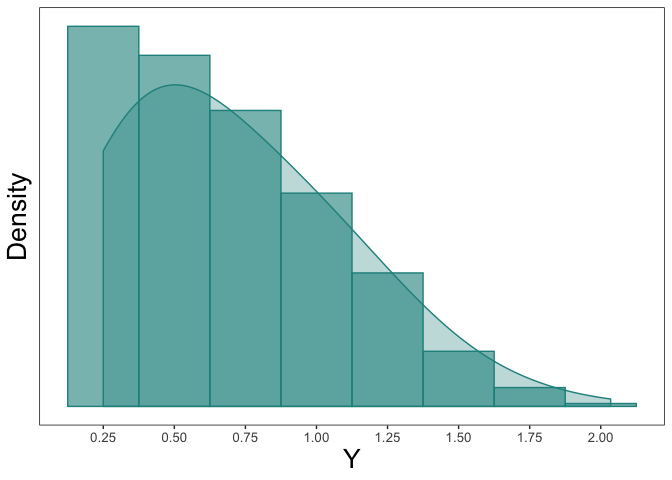
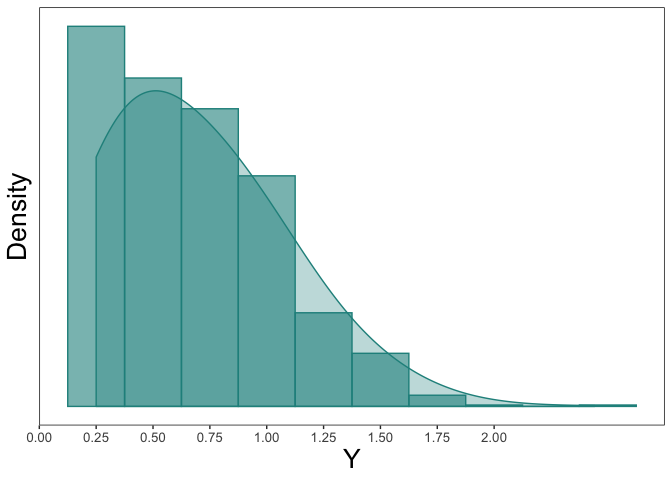
updating README

diff --git a/README.md b/README.md
@@ -48,7 +48,7 @@ y_star <- msm::rtnorm(n=1000, mean=mu, sd=sigma, lower=a)
 round(range(y_star), 3)
 ```
 
-    ## [1] 0.000 2.327
+    ## [1] 0.002 2.442
 
 Next, we can imagine a scenario where we have an imprecise measurement
 of `y_star` leading to censoring. In our case we assume that values
@@ -64,7 +64,7 @@ y <- ifelse(y_star <= nu, nu, y_star)
 sum(y == nu)/length(y) 
 ```
 
-    ## [1] 0.18
+    ## [1] 0.161
 
 ``` r
 #collecting the uncensored and censored data together
@@ -89,22 +89,22 @@ tcensReg(y ~ 1, data=dt, a=0, v=0.25)
 
     ## $theta
     ##               Estimate
-    ## (Intercept)  0.4962550
-    ## log_sigma   -0.7002455
+    ## (Intercept)  0.5417343
+    ## log_sigma   -0.7466209
     ## 
     ## $convergence
     ## [1] 0
     ## 
     ## $initial_ll
-    ## [1] -667.0245
+    ## [1] -637.2453
     ## 
     ## $final_ll
-    ## [1] -652.5841
+    ## [1] -625.8284
     ## 
     ## $var_cov
     ##               (Intercept)     log_sigma
-    ## (Intercept)  0.0008335303 -0.0008352166
-    ## log_sigma   -0.0008352166  0.0015865655
+    ## (Intercept)  0.0006059544 -0.0006142957
+    ## log_sigma   -0.0006142957  0.0013988561
     ## 
     ## $method
     ## [1] "CG"
@@ -153,133 +153,13 @@ knitr::kable(results_df, format="markdown", digits=4)
 |            |     mu |  sigma | mu\_bias | sigma\_bias |
 | :--------- | -----: | -----: | -------: | ----------: |
 | Truth      | 0.5000 | 0.5000 |   0.0000 |      0.0000 |
-| tcensReg   | 0.4963 | 0.4965 |   0.0037 |      0.0035 |
-| Normal MLE | 0.6602 | 0.3675 |   0.1602 |      0.1325 |
-| Tobit      | 0.6170 | 0.4314 |   0.1170 |      0.0686 |
+| tcensReg   | 0.5417 | 0.4740 |   0.0417 |      0.0260 |
+| Normal MLE | 0.6730 | 0.3643 |   0.1730 |      0.1357 |
+| Tobit      | 0.6363 | 0.4201 |   0.1363 |      0.0799 |
 
 Other methods result in significant bias for both `mu` and `sigma`.
 
-Note also that the `tcensReg` can also estimate parameters in the
-censored-only or truncated-only cases. We show below that by using
-analytic values in the tcensReg implementation that our method is faster
-then the alternative estimation procedures while providing better
-variance estimates. With a small set of covariates and `p<<n` we can use
-the Newton Raphson method of optimization, which is computationally fast
-with few covariates.
-
-``` r
-library(microbenchmark)
-#testing the censored-only regression
-library(censReg)
-cens <- microbenchmark(tcensReg_method = tcensReg(y ~ 1, data=dt, v=nu, method="Newton"),
-               censReg_method = censReg(y ~ 1, left=nu, data=dt))
-knitr::kable(summary(cens), format="markdown", digits=4)
-```
-
-| expr             |     min |      lq |    mean |  median |      uq |      max | neval |
-| :--------------- | ------: | ------: | ------: | ------: | ------: | -------: | ----: |
-| tcensReg\_method |  4.8107 |  5.2797 |  7.1915 |  5.7365 |  6.9342 |  32.3154 |   100 |
-| censReg\_method  | 13.7251 | 16.3832 | 25.4027 | 20.2063 | 22.4946 | 181.0279 |   100 |
-
-``` r
-#point estimates are equivalent
-tcensReg_est <- as.numeric(tcensReg(y ~ 1, data=dt, v=nu, method="Newton")$theta)
-censReg_est <- as.numeric(coef(censReg(y ~ 1, left=nu, data=dt)))
-all.equal(tcensReg_est, censReg_est)
-```
-
-    ## [1] TRUE
-
-``` r
-#testing the truncated-only regression
-library(truncreg)
-trunc <- microbenchmark(
-  tcensReg_method = tcensReg(y_star ~ 1, data=dt, a=a, method="Newton"),
-  truncreg_method = truncreg(y_star ~ 1, point=a, data=dt))
-knitr::kable(summary(trunc), format="markdown", digits=4)
-```
-
-| expr             |     min |      lq |    mean |  median |      uq |      max | neval |
-| :--------------- | ------: | ------: | ------: | ------: | ------: | -------: | ----: |
-| tcensReg\_method |  8.4508 |  8.9854 | 12.3351 | 10.1597 | 12.1834 | 140.6673 |   100 |
-| truncreg\_method | 26.0365 | 28.5910 | 34.5339 | 32.2422 | 38.7620 |  70.2593 |   100 |
-
-``` r
-tcensReg_est <- as.numeric(tcensReg(y_star ~ 1, data=dt, a=a, method="Newton")$theta)
-#note truncreg returns sigma not log_sigma so we need to exponentiate our value
-tcensReg_est[2] <- exp(tcensReg_est[2])
-truncreg_est <- as.numeric(coef(truncreg(y_star ~ 1, point=a, data=dt)))
-all.equal(tcensReg_est, truncreg_est)
-```
-
-    ## [1] "Mean relative difference: 1.252194e-07"
-
-In the comparisons above we are using an intercept only model, but in
-general we expect that interest lies in understanding how a set of
-covariates effect the mean response. So to test the sensitivity and
-speed as the number of covariates approaches `n` we can generate
-independent random variables `X` and fit the regression model of `Y` or
-`Y_star`.
-
-We can compare the censored-only and truncated-only performance with 100
-predictors, i.e. `p`=20. To illustrate some of the other available
-optimization methods we will set method to BFGS, which is a quasi-Newton
-optimization method.
-
-``` r
-#number of predictors
-p <- 20
-X <- NULL
-for(i in seq_len(p)){
-    X_i <- rnorm(n = length(y))
-    X <- cbind(X, X_i)
-}
-colnames(X) <- paste0("var_", seq_len(p))
-dt <- data.frame(y, X)
-
-#testing the censored-only regression with 100 covariates
-cens <- microbenchmark(tcensReg_method = tcensReg(y ~ ., data=dt, v=nu, method="BFGS"),
-               censReg_method = censReg(y ~ ., left=nu, data=dt))
-knitr::kable(summary(cens), format="markdown", digits=4)
-```
-
-| expr             |      min |       lq |     mean |   median |       uq |      max | neval |
-| :--------------- | -------: | -------: | -------: | -------: | -------: | -------: | ----: |
-| tcensReg\_method | 208.4625 | 214.4546 | 231.7934 | 219.3142 | 229.9068 | 399.8933 |   100 |
-| censReg\_method  | 285.3236 | 304.4703 | 337.1597 | 314.2466 | 346.7262 | 632.4753 |   100 |
-
-``` r
-#point estimates are equivalent
-tcensReg_est <- as.numeric(tcensReg(y ~ ., data=dt, v=nu, method="BFGS")$theta)
-censReg_est <- as.numeric(coef(censReg(y ~ ., left=nu, data=dt)))
-all.equal(tcensReg_est, censReg_est)
-```
-
-    ## [1] "Mean relative difference: 0.0001905248"
-
-``` r
-#testing the truncated-only regression with 100 covariates
-trunc <- microbenchmark(tcensReg_method = tcensReg(y_star ~ ., data=dt, a=a, method="BFGS"),
-                        truncreg_method = truncreg(y_star ~ ., point=a, data=dt))
-knitr::kable(summary(trunc), format="markdown", digits=4)
-```
-
-| expr             |      min |       lq |     mean |   median |       uq |      max | neval |
-| :--------------- | -------: | -------: | -------: | -------: | -------: | -------: | ----: |
-| tcensReg\_method | 184.9754 | 191.3098 | 210.9298 | 197.6909 | 218.5360 | 347.4651 |   100 |
-| truncreg\_method | 395.4082 | 413.3498 | 458.1695 | 433.9715 | 476.2143 | 752.4025 |   100 |
-
-``` r
-tcensReg_est <- as.numeric(tcensReg(y_star ~ ., data=dt, a=a, method="BFGS")$theta)
-#note truncreg returns sigma not log_sigma so we need to exponentiate the last parameter value
-tcensReg_est[length(tcensReg_est)] <- exp(tcensReg_est[length(tcensReg_est)])
-truncreg_est <- as.numeric(coef(truncreg(y_star ~ ., point=a, data=dt)))
-all.equal(tcensReg_est, truncreg_est)
-```
-
-    ## [1] "Mean relative difference: 5.613449e-05"
-
-# Example 2: Two Population Model with Seprate Variances
+# Example 2: Two Population Model with Separate Variances
 
 As an extension for the single population model above, we can imagine a
 two independent truncated normal random variables that have common
@@ -329,28 +209,28 @@ mod_result
 
     ## $theta
     ##       (Intercept) groupPopulation 2        log_sigma1        log_sigma2 
-    ##         0.5076183         0.5438368        -1.4180676         0.6686763 
+    ##         0.4947191         0.4289221        -1.3876226         0.7103326 
     ## 
     ## $convergence
     ## [1] 2
     ## 
     ## $initial_ll
-    ## [1] -1906.305
+    ## [1] -1953.586
     ## 
     ## $final_ll
-    ## [1] -1830.398
+    ## [1] -1868.854
     ## 
     ## $var_cov
     ##                     (Intercept) groupPopulation 2    log_sigma1
-    ## (Intercept)        7.006140e-05     -7.006140e-05 -5.816753e-05
-    ## groupPopulation 2 -7.006140e-05      2.875721e-02  5.816753e-05
-    ## log_sigma1        -5.816753e-05      5.816753e-05  7.698315e-04
-    ## log_sigma2        -3.251003e-21     -7.031410e-03 -3.472266e-21
+    ## (Intercept)        7.831116e-05     -7.831116e-05 -7.490645e-05
+    ## groupPopulation 2 -7.831116e-05      3.692260e-02  7.490645e-05
+    ## log_sigma1        -7.490645e-05      7.490645e-05  8.185619e-04
+    ## log_sigma2         8.479045e-21     -8.475465e-03 -1.374380e-20
     ##                      log_sigma2
-    ## (Intercept)       -3.251003e-21
-    ## groupPopulation 2 -7.031410e-03
-    ## log_sigma1        -3.472266e-21
-    ## log_sigma2         2.352315e-03
+    ## (Intercept)        8.479045e-21
+    ## groupPopulation 2 -8.475465e-03
+    ## log_sigma1        -1.374380e-20
+    ## log_sigma2         2.555892e-03
     ## 
     ## $method
     ## [1] "maxLik"
@@ -373,5 +253,127 @@ knitr::kable(results_df, format="markdown", digits=4)
 
 |          |  mu\_1 |  mu\_2 | sigma\_1 | sigma\_2 | mu1\_bias | mu2\_bias | sigma1\_bias | sigma2\_bias |
 | :------- | -----: | -----: | -------: | -------: | --------: | --------: | -----------: | -----------: |
-| Truth    | 0.5000 | 1.0000 |   0.2500 |   2.0000 |    0.0000 |    0.0000 |       0.0000 |       0.0000 |
-| tcensReg | 0.5076 | 0.5438 |   0.2422 |   1.9517 |    0.0076 |    0.4562 |       0.0078 |       0.0483 |
+| Truth    | 0.5000 | 1.0000 |   0.2500 |   2.0000 |    0.0000 |    0.0000 |        0e+00 |       0.0000 |
+| tcensReg | 0.4947 | 0.4289 |   0.2497 |   2.0347 |    0.0053 |    0.5711 |        3e-04 |       0.0347 |
+
+# Performance Comparison: Censored-Only and Truncated-Only
+
+Note also that the `tcensReg` can also estimate parameters in the
+censored-only or truncated-only cases. We show below that by using
+analytic values in the tcensReg implementation that our method is faster
+then the alternative estimation procedures while providing better
+variance estimates. With a small set of covariates and `p<<n` we can use
+the Newton Raphson method of optimization, which is computationally fast
+with few covariates.
+
+``` r
+library(microbenchmark)
+#testing the censored-only regression
+library(censReg)
+cens <- microbenchmark(tcensReg_method = tcensReg(y ~ 1, data=dt, v=nu, method="Newton"),
+               censReg_method = censReg(y ~ 1, left=nu, data=dt))
+knitr::kable(summary(cens), format="markdown", digits=4)
+```
+
+| expr             |     min |      lq |    mean |  median |      uq |      max | neval |
+| :--------------- | ------: | ------: | ------: | ------: | ------: | -------: | ----: |
+| tcensReg\_method |  4.7019 |  5.3771 |  6.0058 |  5.6841 |  5.9157 |  13.9192 |   100 |
+| censReg\_method  | 13.0509 | 15.4322 | 19.4388 | 16.1687 | 22.0166 | 152.3711 |   100 |
+
+``` r
+#point estimates are equivalent
+tcensReg_est <- as.numeric(tcensReg(y ~ 1, data=dt, v=nu, method="Newton")$theta)
+censReg_est <- as.numeric(coef(censReg(y ~ 1, left=nu, data=dt)))
+all.equal(tcensReg_est, censReg_est)
+```
+
+    ## [1] TRUE
+
+``` r
+#testing the truncated-only regression
+library(truncreg)
+trunc <- microbenchmark(
+  tcensReg_method = tcensReg(y_star ~ 1, data=dt, a=a, method="Newton"),
+  truncreg_method = truncreg(y_star ~ 1, point=a, data=dt))
+knitr::kable(summary(trunc), format="markdown", digits=4)
+```
+
+| expr             |     min |      lq |    mean |  median |      uq |     max | neval |
+| :--------------- | ------: | ------: | ------: | ------: | ------: | ------: | ----: |
+| tcensReg\_method |  8.4808 |  9.0744 | 10.9160 |  9.8203 | 11.8880 | 23.5230 |   100 |
+| truncreg\_method | 26.1070 | 28.9581 | 32.9231 | 32.3717 | 35.7111 | 49.1436 |   100 |
+
+``` r
+tcensReg_est <- as.numeric(tcensReg(y_star ~ 1, data=dt, a=a, method="Newton")$theta)
+#note truncreg returns sigma not log_sigma so we need to exponentiate our value
+tcensReg_est[2] <- exp(tcensReg_est[2])
+truncreg_est <- as.numeric(coef(truncreg(y_star ~ 1, point=a, data=dt)))
+all.equal(tcensReg_est, truncreg_est)
+```
+
+    ## [1] TRUE
+
+In the comparisons above we are using an intercept only model, but in
+general we expect that interest lies in understanding how a set of
+covariates effect the mean response. So to test the sensitivity and
+speed as the number of covariates approaches `n` we can generate
+independent random variables `X` and fit the regression model of `Y` or
+`Y_star`.
+
+We can compare the censored-only and truncated-only performance with 100
+predictors, i.e. `p`=20. To illustrate some of the other available
+optimization methods we will set method to BFGS, which is a quasi-Newton
+optimization method.
+
+``` r
+#number of predictors
+p <- 20
+X <- NULL
+for(i in seq_len(p)){
+    X_i <- rnorm(n = length(y))
+    X <- cbind(X, X_i)
+}
+colnames(X) <- paste0("var_", seq_len(p))
+dt <- data.frame(y, X)
+
+#testing the censored-only regression with 100 covariates
+cens <- microbenchmark(tcensReg_method = tcensReg(y ~ ., data=dt, v=nu, method="BFGS"),
+               censReg_method = censReg(y ~ ., left=nu, data=dt))
+knitr::kable(summary(cens), format="markdown", digits=4)
+```
+
+| expr             |      min |       lq |     mean |   median |       uq |      max | neval |
+| :--------------- | -------: | -------: | -------: | -------: | -------: | -------: | ----: |
+| tcensReg\_method | 238.0559 | 244.0830 | 269.8552 | 247.8826 | 251.4361 | 1395.783 |   100 |
+| censReg\_method  | 311.4006 | 325.0223 | 367.4818 | 331.3247 | 340.7821 | 1093.933 |   100 |
+
+``` r
+#point estimates are equivalent
+tcensReg_est <- as.numeric(tcensReg(y ~ ., data=dt, v=nu, method="BFGS")$theta)
+censReg_est <- as.numeric(coef(censReg(y ~ ., left=nu, data=dt)))
+all.equal(tcensReg_est, censReg_est)
+```
+
+    ## [1] "Mean relative difference: 0.0001712397"
+
+``` r
+#testing the truncated-only regression with 100 covariates
+trunc <- microbenchmark(tcensReg_method = tcensReg(y_star ~ ., data=dt, a=a, method="BFGS"),
+                        truncreg_method = truncreg(y_star ~ ., point=a, data=dt))
+knitr::kable(summary(trunc), format="markdown", digits=4)
+```
+
+| expr             |      min |       lq |     mean |   median |       uq |      max | neval |
+| :--------------- | -------: | -------: | -------: | -------: | -------: | -------: | ----: |
+| tcensReg\_method | 281.5945 | 288.4134 | 295.8103 | 291.8989 | 295.0841 | 425.1505 |   100 |
+| truncreg\_method | 345.9981 | 354.8429 | 370.9717 | 358.8353 | 365.0900 | 507.5020 |   100 |
+
+``` r
+tcensReg_est <- as.numeric(tcensReg(y_star ~ ., data=dt, a=a, method="BFGS")$theta)
+#note truncreg returns sigma not log_sigma so we need to exponentiate the last parameter value
+tcensReg_est[length(tcensReg_est)] <- exp(tcensReg_est[length(tcensReg_est)])
+truncreg_est <- as.numeric(coef(truncreg(y_star ~ ., point=a, data=dt)))
+all.equal(tcensReg_est, truncreg_est)
+```
+
+    ## [1] "Mean relative difference: 4.962433e-05"
